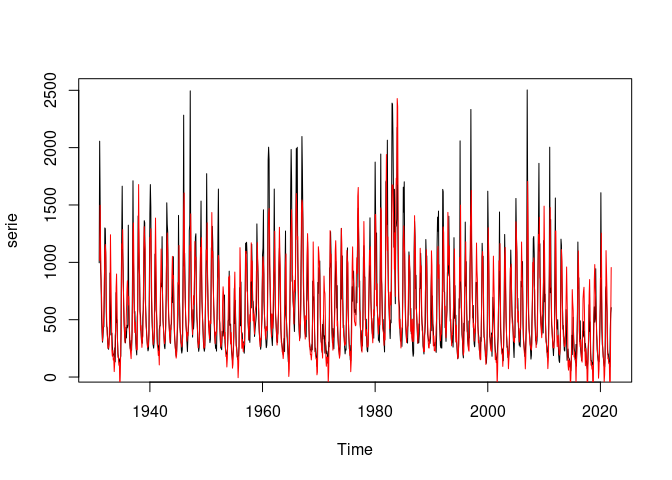
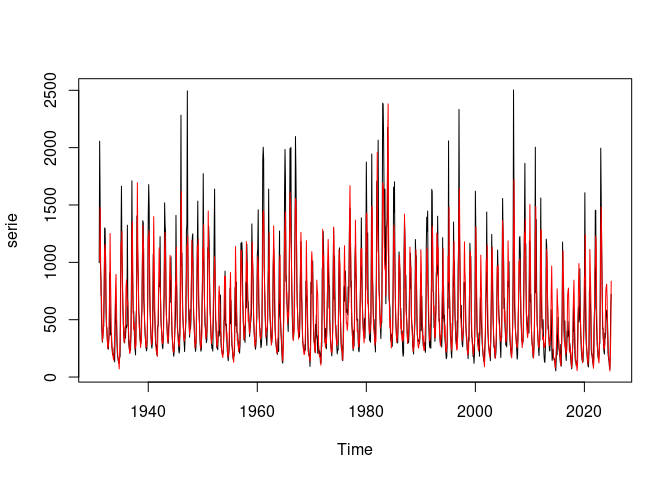
Adds workflows do github

diff --git a/README.md b/README.md
@@ -5,6 +5,9 @@
 
 <!-- badges: start -->
 
+[![R-CMD-check](https://github.com/lkhenayfis/parmodels/actions/workflows/R-CMD-check.yaml/badge.svg)](https://github.com/lkhenayfis/parmodels/actions/workflows/R-CMD-check.yaml)
+[![Codecov test
+coverage](https://codecov.io/gh/lkhenayfis/parmodels/graph/badge.svg)](https://app.codecov.io/gh/lkhenayfis/parmodels)
 <!-- badges: end -->
 
 Este pacote contem toda a funcionalidade necessaria para estimacao,